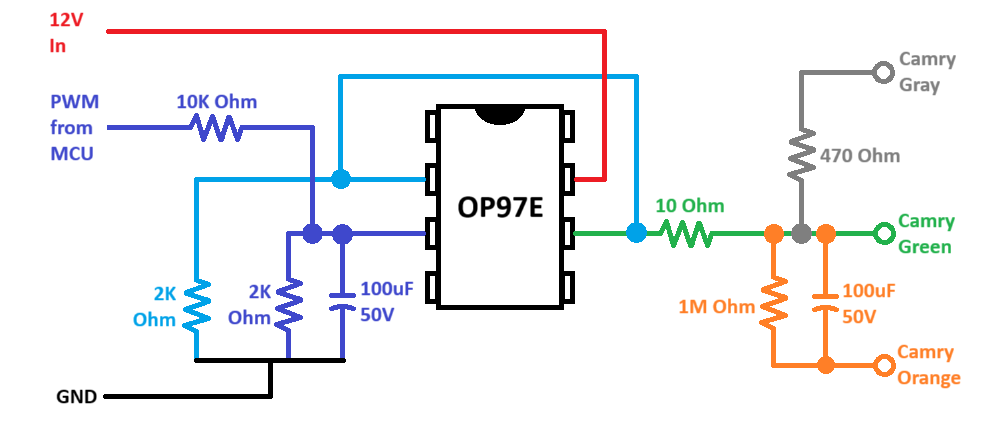
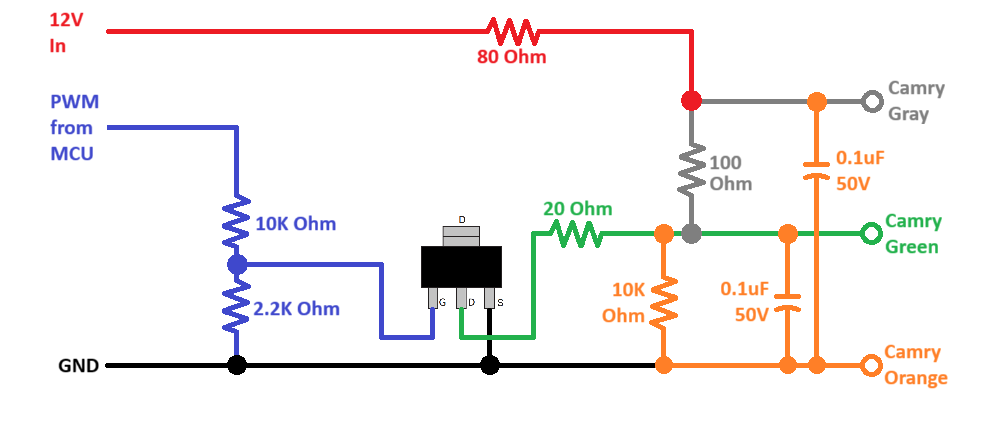
Add updated hardware for fuel spoof

Changed region(s): [[0.031, 0.0303, 0.961, 0.9394]]

diff --git a/src/DecentralizedLV-DashController.cpp b/src/DecentralizedLV-DashController.cpp
@@ -21,6 +21,7 @@
 
 void setup();
 void loop();
+void updateFuelState(uint8_t fuel);
 void updateLPOutputs();
 void updateMP3Player();
 #line 16 "c:/Users/mligh/OneDrive/Particle/DecentralizedLV-DashController/src/DecentralizedLV-DashController.ino"
@@ -127,6 +128,8 @@ uint16_t driveADC = 0;          //Raw ADC reading from the drive switches. Depen
 uint16_t headlightADC = 0;      //Raw ADC reading from the headlight switches. Depending on the reading sets off, auto headlights from brightness, or manual on
 uint16_t photoresistorADC = 0;     //Value read by photoresistor, used to update automatic headlight state
 
+//Fuel
+uint8_t fuelPercentage = 85;   //Percentage of fuel in the tank (0-100). This can be updated by the BMS or other sources. Default to 100 for startup
 
 ///////////////////////////////////////////////////////////////////
 ////////////    CORNER RECEIVE GLOBAL VARIABLES     ///////////////
@@ -218,6 +221,7 @@ void loop() {
     updateFanControl();
     updateLPOutputs();
     updateMP3Player();
+    updateFuelState(fuelPercentage);
 
     dashController.sendCANData(canController);
 
@@ -388,9 +392,40 @@ void updateFaultState(){
     }
 }
 
+void updateFuelState(uint8_t fuel){
+    //This function can be used to update the fuel percentage in the dash controller. This can be called from BMS or other sources
+    uint8_t fuelMinPWM = 215; //analogWrite value that shows the minimum fuel level on the cluster.
+    uint8_t fuelMaxPWM = 75; //analogWrite value that shows the maximum fuel level on the cluster.
+    
+    if(fuel <= 100 && fuel >= 0){
+        fuelPercentage = fuel; //Update the fuel percentage if within range
+    }
+    else{
+        fuelPercentage = 0; //Default to 100 if out of range
+    }
+    
+    //Higher PWM value means less fuel in the tank, need to invert.
+    float fuelPercentage = (float)fuel / 100.0; //Convert to a percentage (0-1)
+
+    //Gauge doesn't seem to be linear :(  - Need to map the values to a non-linear scale to match the gauge on the cluster.
+    if(fuelPercentage <= 0.25){
+        fuelPercentage *= 1.3;
+    }
+    else if (fuelPercentage < 0.8){      //Lower range (0.25 to 0.8) - this is where the gauge is more linear, so scale it linearly to match the gauge
+        fuelPercentage += 0.3 * 0.25;    //Need to add on the calculation from the previous region to have continuous values
+    }
+    else{                                //Upper region (0.8 to 1.0) - this is where the gauge starts to saturate and not move as much, so scale it down to match the gauge
+        fuelPercentage = 0.625 * (fuelPercentage - 0.8) + 0.875;    //Some complicated math to map the region from 0.875 to 1.0
+    }
+
+    if(fuelPercentage > 1.0) fuelPercentage = 1.0; //Clamp to 1.0 if it exceeds 1.0 after mapping to the non-linear scale
+
+    analogWrite(FUEL_PWM, fuelMinPWM - (fuelPercentage * (fuelMinPWM - fuelMaxPWM)), 10000);
+    
+}
+
 void updateLPOutputs(){
     digitalWrite(INST_PWR, HIGH);
-    analogWrite(FUEL_PWM, 5 + random(20));
     digitalWrite(STEREO, HIGH);
     digitalWrite(DRV_FAN, HIGH);
     
